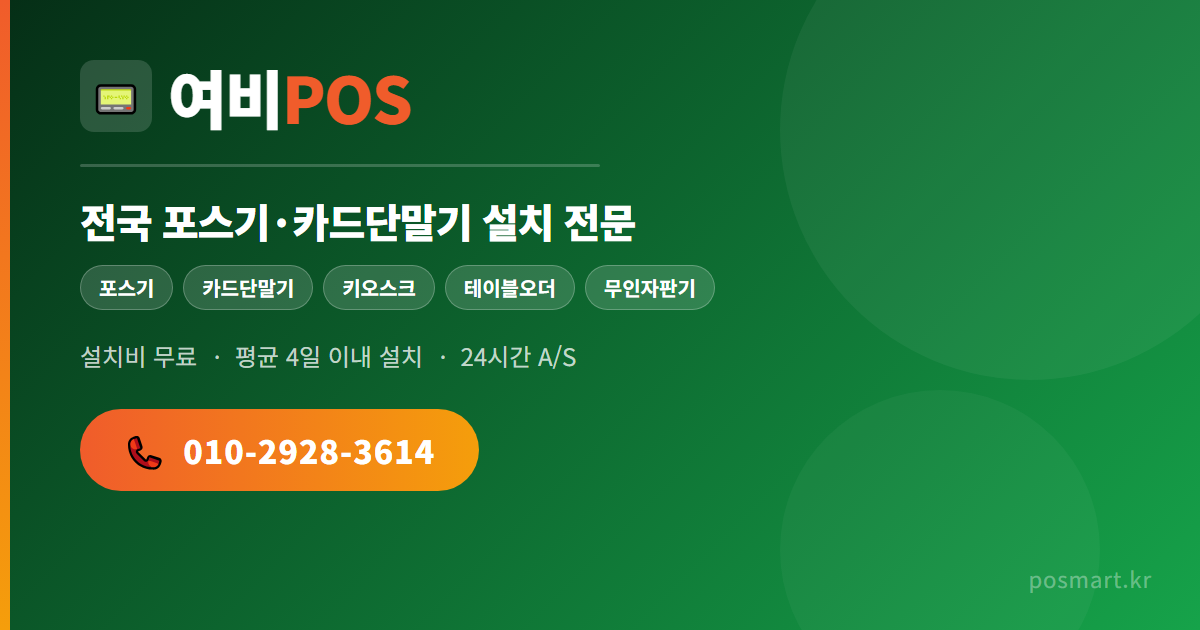
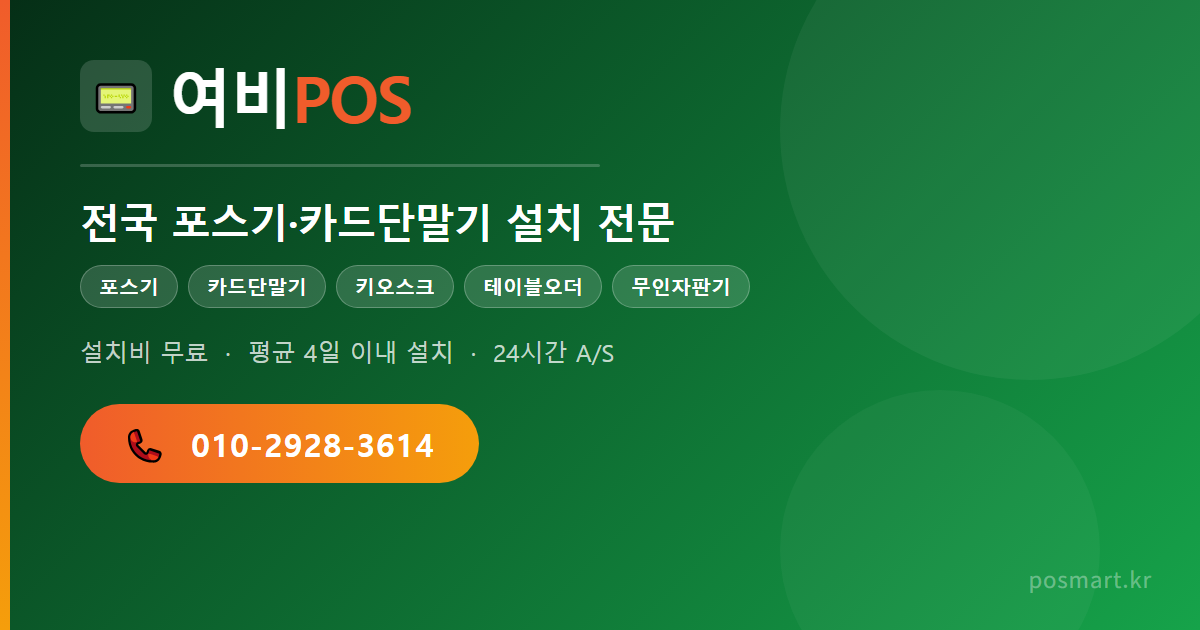
OG 이미지 한글 깨짐 수정 (맑은 고딕 적용)

diff --git a/og-template.html b/og-template.html
@@ -1,0 +1,111 @@
+<!DOCTYPE html>
+<html lang="ko">
+<head>
+<meta charset="UTF-8"/>
+<style>
+    * { margin:0; padding:0; box-sizing:border-box; }
+  body {
+    width: 1200px;
+    height: 630px;
+    overflow: hidden;
+    font-family: 'Malgun Gothic', '맑은 고딕', sans-serif;
+    background: linear-gradient(135deg, #052e16 0%, #16a34a 100%);
+    position: relative;
+  }
+  .deco1 {
+    position: absolute; top: -120px; right: -80px;
+    width: 500px; height: 500px; border-radius: 50%;
+    background: rgba(255,255,255,0.05);
+  }
+  .deco2 {
+    position: absolute; bottom: -80px; right: 100px;
+    width: 320px; height: 320px; border-radius: 50%;
+    background: rgba(255,255,255,0.04);
+  }
+  .accent-bar {
+    position: absolute; left:0; top:0; bottom:0;
+    width: 10px;
+    background: linear-gradient(180deg, #f05c2b, #f59e0b);
+  }
+  .content {
+    position: absolute;
+    left: 80px; top: 60px;
+  }
+  .brand {
+    display: flex; align-items: center; gap: 16px;
+    margin-bottom: 32px;
+  }
+  .brand-icon {
+    width: 72px; height: 72px; border-radius: 14px;
+    background: rgba(255,255,255,0.15);
+    display: flex; align-items: center; justify-content: center;
+    font-size: 36px;
+  }
+  .brand-name {
+    font-size: 64px; font-weight: 900; color: #fff;
+    letter-spacing: -2px; line-height: 1;
+  }
+  .brand-name span { color: #f05c2b; }
+  .divider {
+    width: 520px; height: 3px;
+    background: rgba(255,255,255,0.2);
+    border-radius: 2px;
+    margin-bottom: 28px;
+  }
+  .tagline {
+    font-size: 40px; font-weight: 900; color: #fff;
+    letter-spacing: -1px; margin-bottom: 18px;
+    line-height: 1.3;
+  }
+  .services {
+    display: flex; gap: 10px; flex-wrap: wrap;
+    margin-bottom: 28px;
+  }
+  .svc-tag {
+    background: rgba(255,255,255,0.15);
+    color: #fff; font-size: 20px; font-weight: 700;
+    padding: 7px 18px; border-radius: 100px;
+    border: 1.5px solid rgba(255,255,255,0.25);
+  }
+  .sub {
+    font-size: 24px; color: rgba(255,255,255,0.75);
+    margin-bottom: 36px; font-weight: 400;
+  }
+  .phone-btn {
+    display: inline-flex; align-items: center; gap: 12px;
+    background: linear-gradient(90deg, #f05c2b, #f59e0b);
+    color: #fff; font-size: 32px; font-weight: 900;
+    padding: 18px 44px; border-radius: 100px;
+    letter-spacing: 1px;
+  }
+  .domain {
+    position: absolute; right: 48px; bottom: 36px;
+    font-size: 22px; color: rgba(255,255,255,0.35);
+    font-family: sans-serif; letter-spacing: 1px;
+  }
+</style>
+</head>
+<body>
+  <div class="deco1"></div>
+  <div class="deco2"></div>
+  <div class="accent-bar"></div>
+  <div class="content">
+    <div class="brand">
+      <div class="brand-icon">📟</div>
+      <div class="brand-name">여비<span>POS</span></div>
+    </div>
+    <div class="divider"></div>
+    <div class="tagline">전국 포스기·카드단말기 설치 전문</div>
+    <div class="services">
+      <span class="svc-tag">포스기</span>
+      <span class="svc-tag">카드단말기</span>
+      <span class="svc-tag">키오스크</span>
+      <span class="svc-tag">테이블오더</span>
+      <span class="svc-tag">무인자판기</span>
+    </div>
+    <div class="sub">설치비 무료 &nbsp;·&nbsp; 평균 4일 이내 설치 &nbsp;·&nbsp; 24시간 A/S</div>
+    <div class="phone-btn">📞 &nbsp;010-2928-3614</div>
+  </div>
+  <div class="domain">posmart.kr</div>
+</body>
+</html>